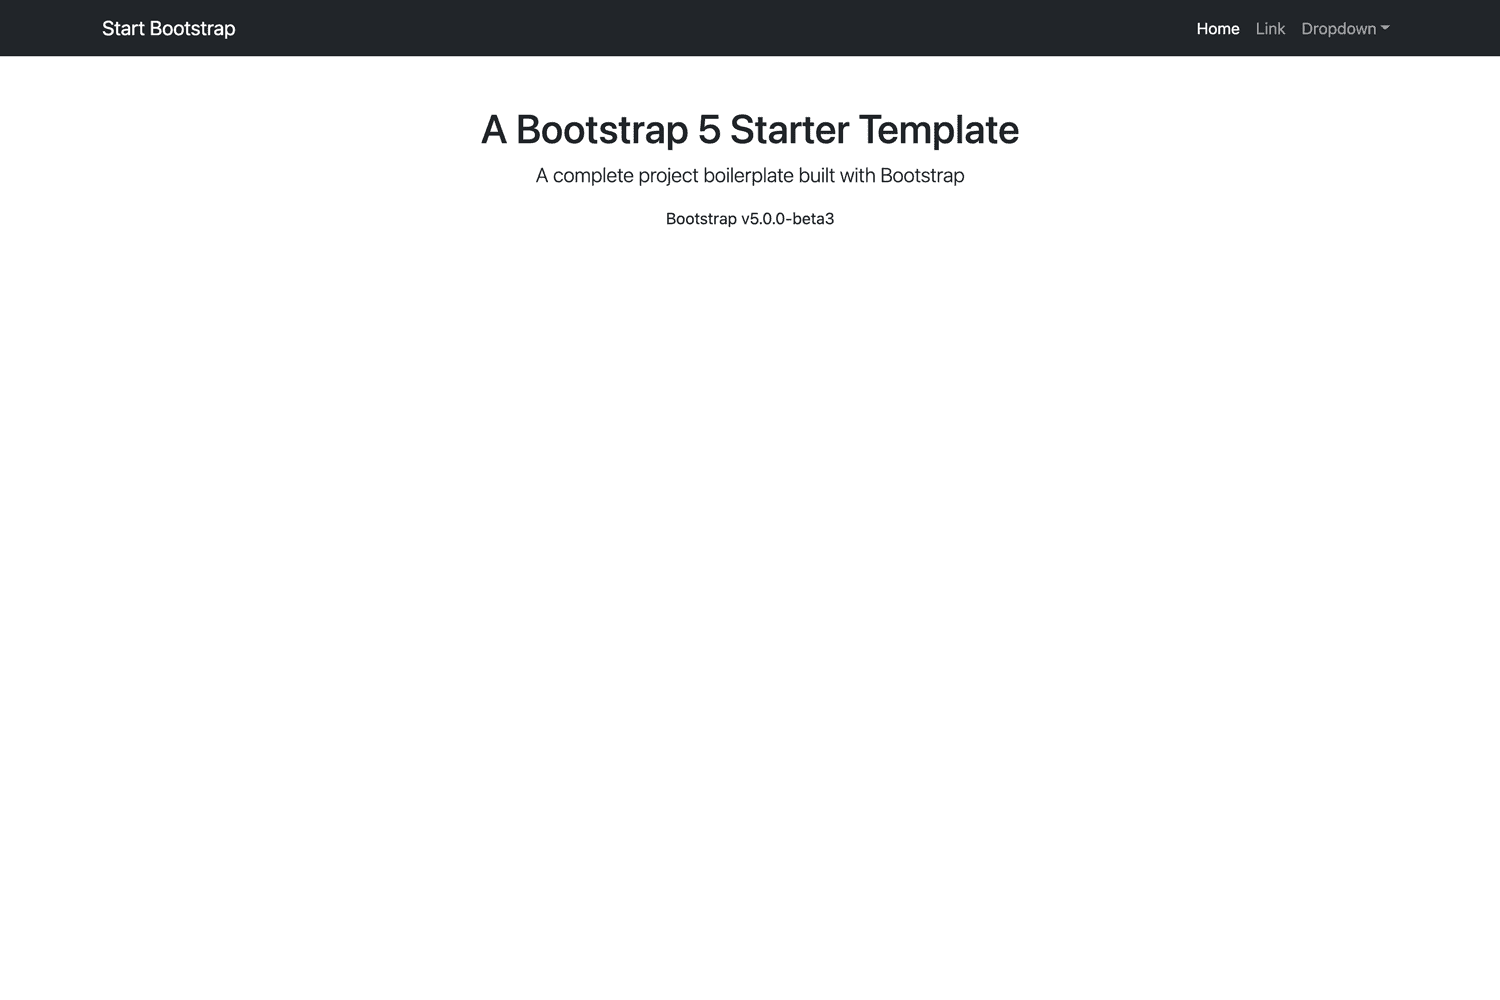
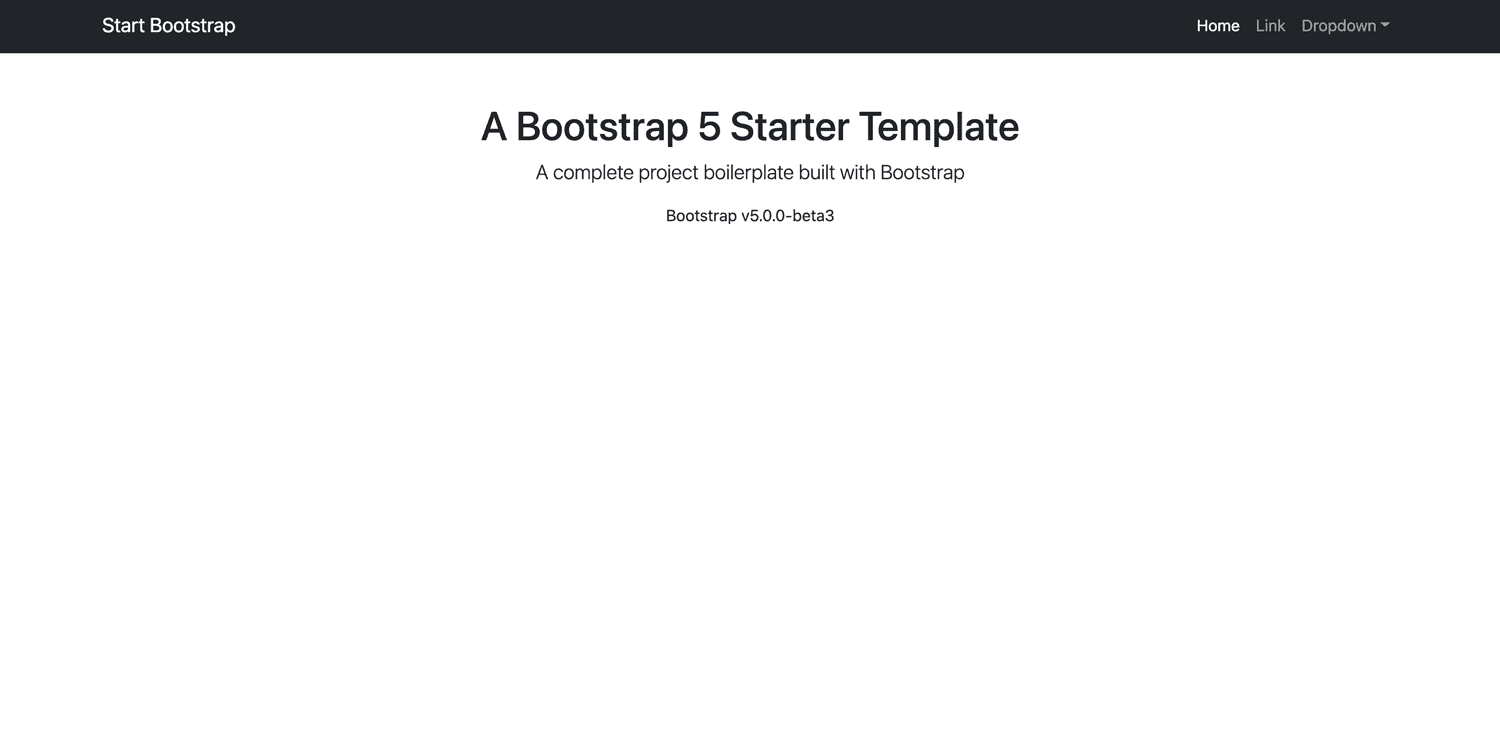
Update Screenshot

Changed region(s): [[0.0, 0.0, 1.0, 0.2453], [0.4293, 0.276, 0.552, 0.3067]]

diff --git a/README.md b/README.md
@@ -6,7 +6,7 @@
 
 ## Preview
 
-![Bootstrap screenshot](https://github.com/hafiz6512/HTML-Bootstrap-5-Boilerplate/blob/master/screenshot.png)
+![Bootstrap screenshot](https://github.com/hafiz6512/HTML-Bootstrap-5-Boilerplate/blob/main/bootstrap-5-screenshot.png)
 
 
 ## About
